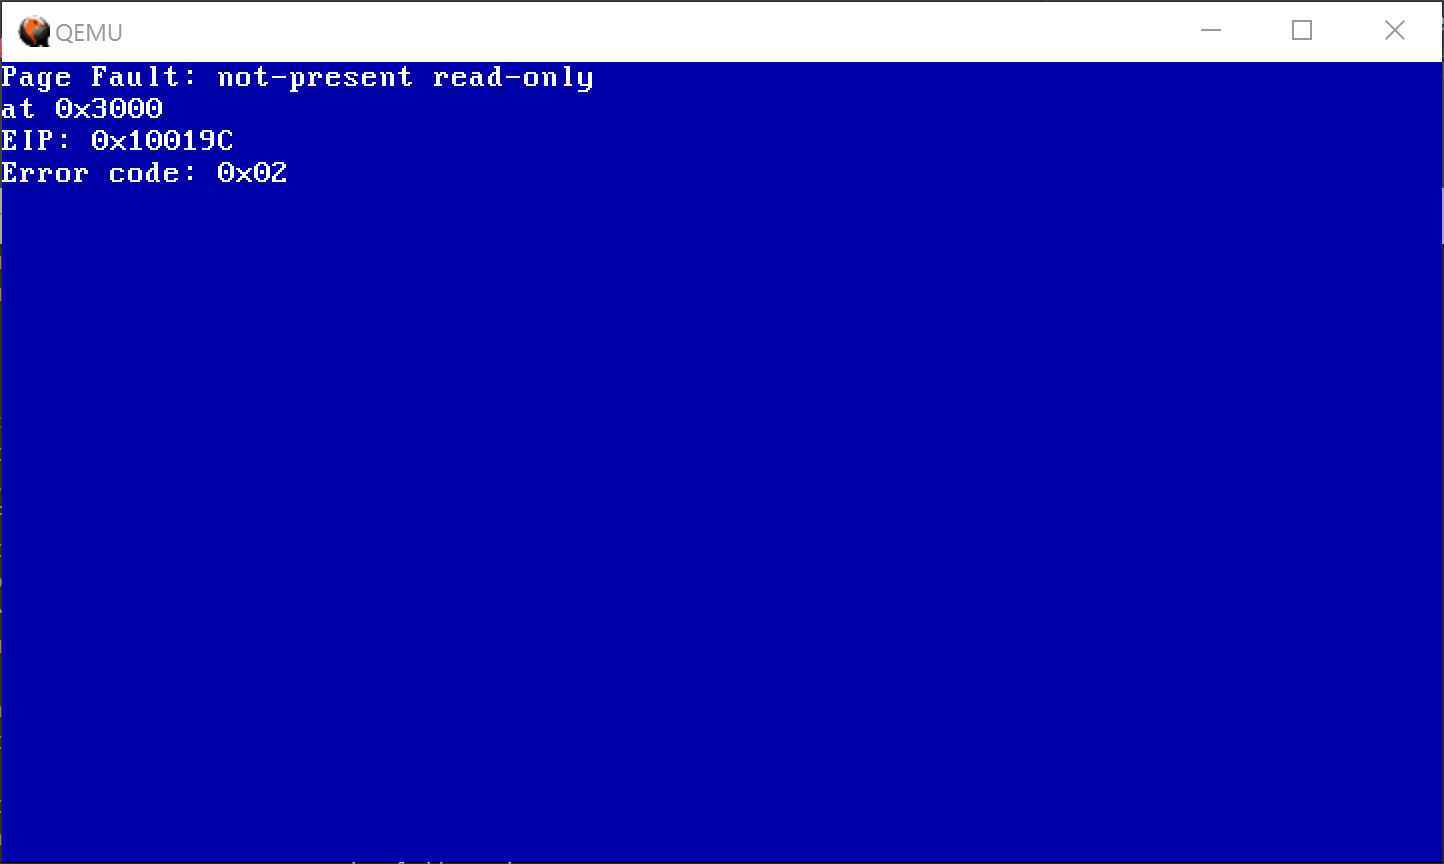
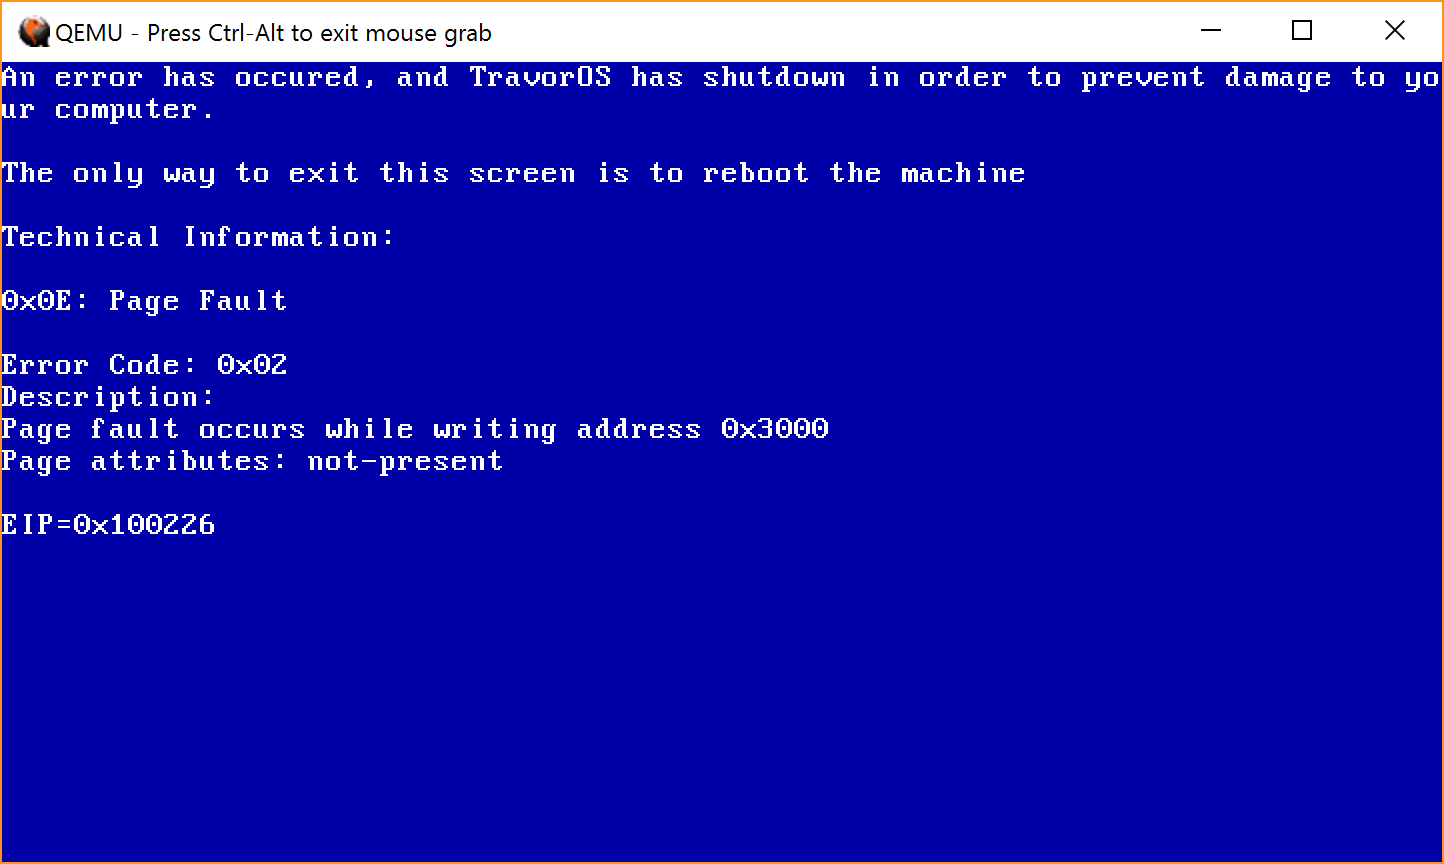
New blue screen

diff --git a/mm/paging.c b/mm/paging.c
@@ -1,8 +1,10 @@
 #include <kernel/memory.h>
 #include <kernel/utils.h>
+#include <kernel/bsod.h>
 #include <asm/shutdown.h>
 #include <drivers/screen.h>
 #include <cpu/isr.h>
+#include <stdio.h>
 
 size_t page_directory[1024] __attribute__((aligned(4096)));
 size_t first_page_table[1024] __attribute__((aligned(4096)));
@@ -16,18 +18,16 @@ static void page_fault(registers_t regs){
 	reserved=regs.err_code & 0x8;	// Overwritten CPU-reserved bits of page entry?
 	id=regs.err_code & 0x10;		// Caused by an instruction fetch?
 	__asm__("movl %%cr2,%0":"=r" (faulting_address));
-	clear_screen(0x1F);
-	kprint_set_color(0x1F);
-	kprintf("Page Fault: ");
-	if(!present){kprintf("not-present ");}
-	if(rw){kprintf("read-only ");}
-	if(us){kprintf("user-mode ");}
-	if(reserved){kprintf("reserved" );}
-	kprintf("\nat 0x%x\n",faulting_address);
-	kprintf("EIP: 0x%x\n",regs.eip);
-	kprintf("Error code: 0x%x\n",regs.err_code);
-	disable_cursor();
-	while(1);	// Hang so we don't repeat the same error again
+	char description[512];
+	sprintf(description,"Page fault occurs while %s address 0x%x\nPage attributes: %s%s%s%s",
+		rw?"writing":"reading",
+		faulting_address,
+		present?"\0":"not-present ",
+		us?"user-mode ":"\0",
+		reserved?"cpu-reserved ":"\0",
+		id?"instruction-fetch":"\0"
+	);
+	bsod_enter(regs.int_no,"Page Fault",regs.err_code,description,regs.eip);
 }
 
 void init_paging(void){

diff --git a/kernel/kernel.c b/kernel/kernel.c
@@ -47,7 +47,7 @@ terminal_loop:
 		printf("clear:    Clear the terminal screen\n");
 		printf("shutdown: Shutdown the machine\n");
 		printf("reboot:   Reboot this machine\n");
-		printf("page:     Trigger a Page Fault\n");
+		printf("bsod:     Trigger a Blue Screen of Death\n");
 		printf("help:     Display this page\n");
 		printf("\nThis OS is built for i386 Architecture.\n");
 		printf("Report bugs to " BUGREPORT "\n");
@@ -57,7 +57,7 @@ terminal_loop:
 		printf("TravorOS version " VERSION "\nwritten by Travor Liu\nReport bugs to " BUGREPORT "\n");
 		goto terminal_loop;
 	}
-	if(!strcmp(cmd,"page")){
+	if(!strcmp(cmd,"bsod")){
 		char *ptr=(char*)0x3000;
 		*ptr=1;
 		goto terminal_loop;

diff --git a/kernel/bsod.c b/kernel/bsod.c
@@ -1,0 +1,18 @@
+#include <kernel/bsod.h>
+#include <kernel/utils.h>
+#include <drivers/screen.h>
+
+// Enter blue screen of death
+void bsod_enter(size_t int_no,const char *name,size_t err_code,const char *description,size_t eip){
+	clear_screen(0x1F);
+	kprint_set_color(0x1F);
+	kprintf("An error has occured, and TravorOS has shutdown in order to prevent damage to your computer.\n\n");
+	kprintf("The only way to exit this screen is to reboot the machine\n");
+	kprintf("\nTechnical Information:\n\n");
+	kprintf("0x%x: %s\n\n",int_no,name);
+	kprintf("Error Code: 0x%x\n",err_code);
+	kprintf("Description:\n%s",description);
+	kprintf("\n\nEIP=0x%x\n",eip);
+	disable_cursor();
+	while(1);
+}

diff --git a/include/kernel/bsod.h b/include/kernel/bsod.h
@@ -1,0 +1,11 @@
+#include <def.h>
+#ifndef	__BSOD_H_
+#define	__BSOD_H_
+#ifdef	__cplusplus
+extern	"C"{
+#endif
+extern void bsod_enter(size_t int_no,const char *name,size_t err_no,const char *description,size_t eip);
+#ifdef	__cplusplus
+}
+#endif
+#endif

diff --git a/README.md b/README.md
@@ -62,7 +62,7 @@ This Operating System uses both segmentation and paging to provide memory protec
 
 1. **Data Segment for user**: Same as 4
 
-I also enable paging. Now I intentionally maped the fourth page in the first page table to `not-present` and `read-only`, so you can generate a **Page Fault** by executing entering `page` in my OS's command line.
+I also enable paging. Now I intentionally maped the fourth page in the first page table to `not-present` and `read-only`, so you can generate a **Page Fault** by executing entering `bsod` in my OS's command line.
 
 ![bluescreen](screenshots/bsod.png)
 
